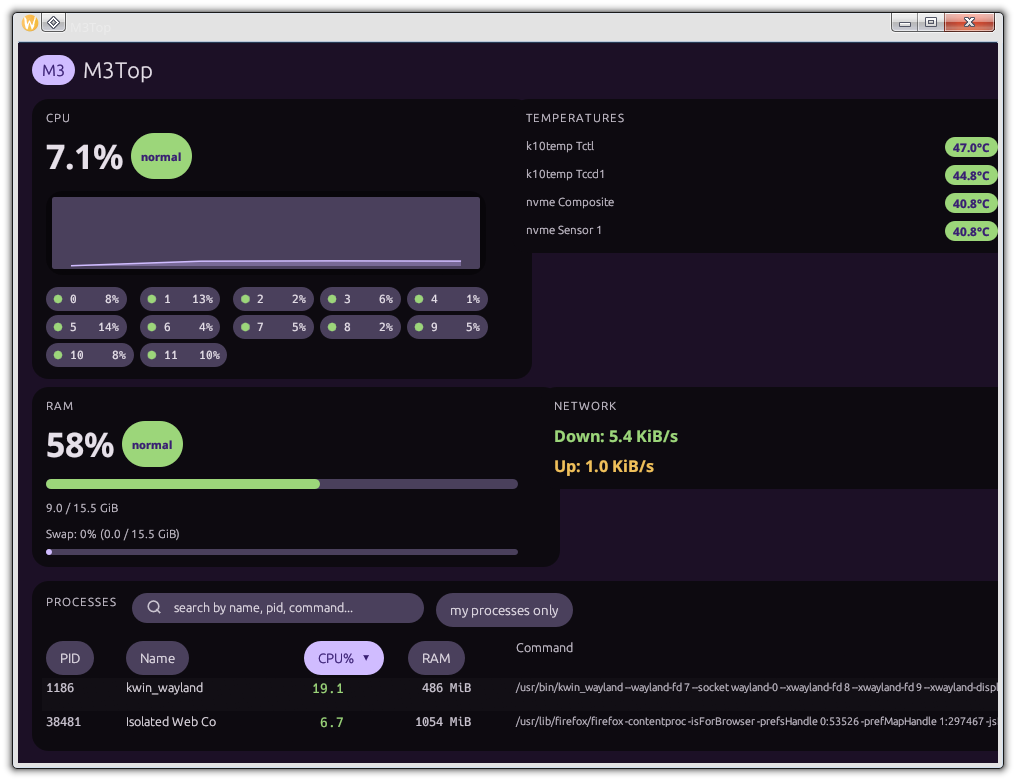
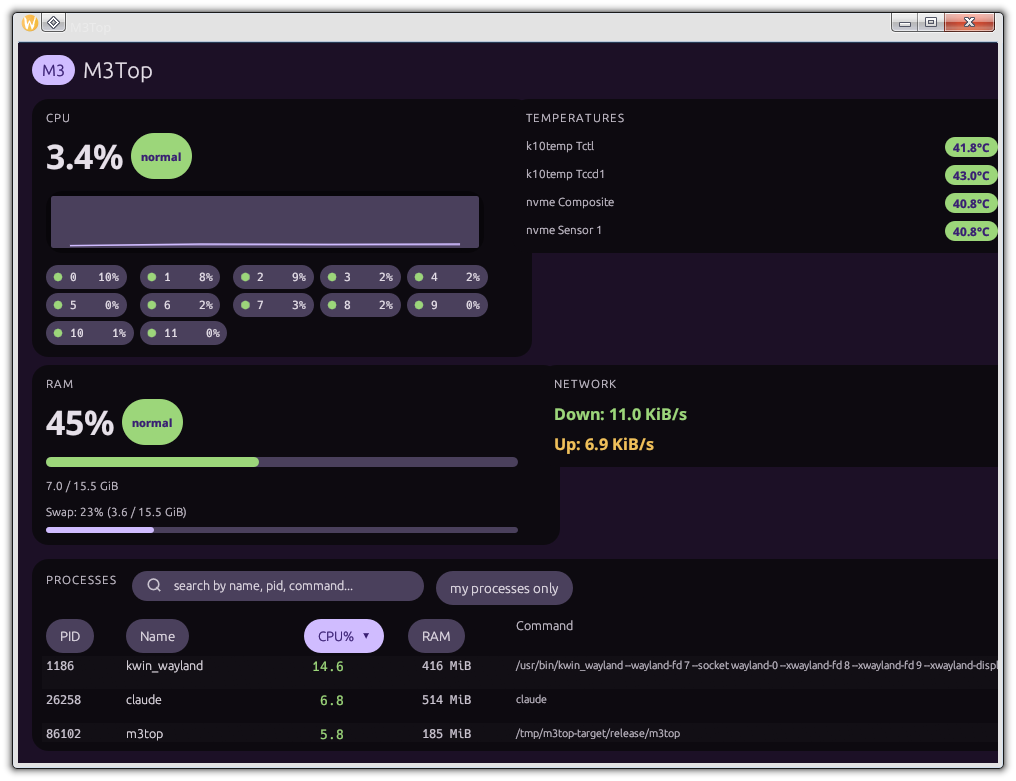
Polish: shrink CPU card so the process table gets more visible rows
- CPU card's history plot (72px -> 52px) and inner margin were eating
  too much vertical space, leaving only ~2 process rows visible at the
  default window size — shrunk it so more of the window's height goes
  to the actually useful process list.
- Bumped the default window height slightly (720 -> 800).
- Updated docs/screenshot.png to match.

diff --git a/crates/desktop/src/widgets.rs b/crates/desktop/src/widgets.rs
@@ -89,9 +89,9 @@ pub fn cpu_card(ui: &mut Ui, snap: &Snapshot, history: &CpuHistory, width: f32, 
                 metric_headline(ui, &format!("{:.1}%", shown_total), Some((level_label(shown_total, 70.0, 90.0), color)));
                 ui.add_space(4.0);
 
-                egui::Frame::new().fill(theme::SURFACE_CONTAINER_LOWEST).corner_radius(theme::SHAPE_LARGE).inner_margin(6.0).show(ui, |ui| {
+                egui::Frame::new().fill(theme::SURFACE_CONTAINER_LOWEST).corner_radius(theme::SHAPE_LARGE).inner_margin(5.0).show(ui, |ui| {
                     Plot::new("cpu_plot")
-                        .height(72.0)
+                        .height(52.0)
                         .width((width - 44.0).max(40.0))
                         .show_axes([false, false])
                         .show_grid([false, false])

diff --git a/crates/desktop/src/main.rs b/crates/desktop/src/main.rs
@@ -2,7 +2,7 @@ fn main() -> eframe::Result<()> {
     let options = eframe::NativeOptions {
         viewport: eframe::egui::ViewportBuilder::default()
             .with_min_inner_size([480.0, 360.0])
-            .with_inner_size([980.0, 720.0]),
+            .with_inner_size([980.0, 800.0]),
         ..Default::default()
     };
     eframe::run_native("M3Top", options, Box::new(|_cc| Ok(Box::new(m3top::App::default()))))
